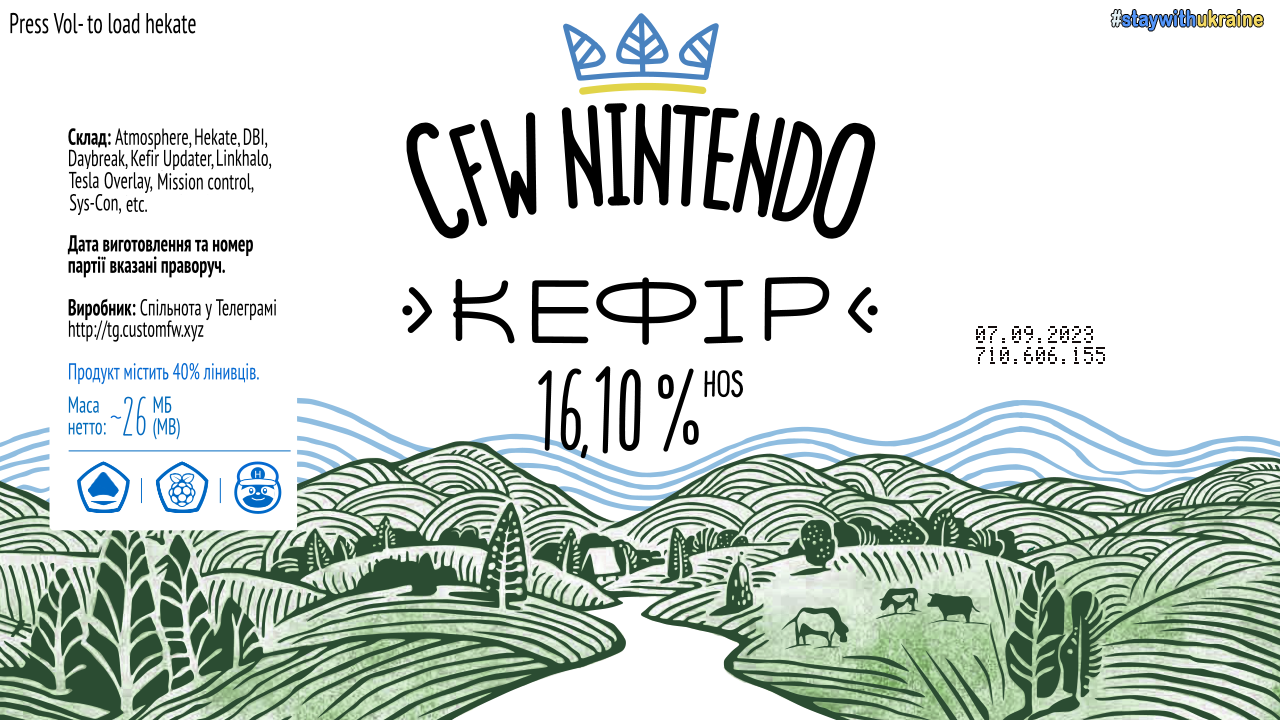
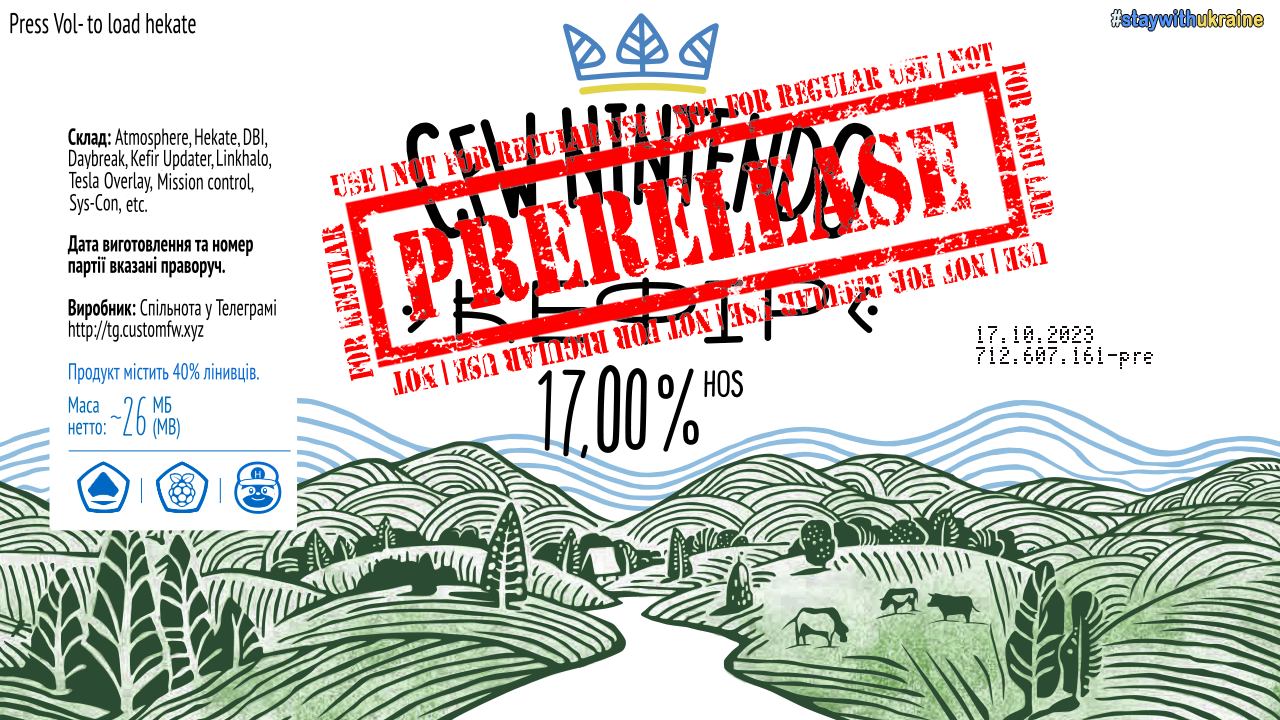
kefir712

Changed region(s): [[0.25, 0.0611, 0.8438, 0.6417], [0.875, 0.4889, 0.9062, 0.5194], [0.7812, 0.4583, 0.8125, 0.4889]]

diff --git a/kefir.html b/kefir.html
@@ -329,7 +329,7 @@
 <nav class="toc">
     <header><h4 class="nav__title"><i class="fa fa-file-text"></i> Разделы</h4></header>
 <ul class="toc__menu" id="markdown-toc">
-  <li><a href="#kefir-710" id="markdown-toc-kefir-710">KEFIR 710</a>    <ul>
+  <li><a href="#kefir-712" id="markdown-toc-kefir-712">KEFIR 712</a>    <ul>
       <li><a href="#что-такое-кефир" id="markdown-toc-что-такое-кефир">Что такое кефир</a></li>
       <li><a href="#инструкция-по-установкеобновлению-kefir" id="markdown-toc-инструкция-по-установкеобновлению-kefir">Инструкция по установке/обновлению kefir</a></li>
     </ul>
@@ -365,7 +365,7 @@
 
 <hr />
 
-<h2 id="kefir-710"><a href="https://codeberg.org/rashevskyv/kefir/releases" target="_blank">KEFIR 710</a></h2>
+<h2 id="kefir-712"><a href="https://codeberg.org/rashevskyv/kefir/releases" target="_blank">KEFIR 712</a></h2>
 
 <p class="text-center"><img src="/images/kefir.png" alt="kefir" width="70%" /></p>
 
@@ -607,51 +607,41 @@
 <h3 id="изменения-от-прошлой-версии">Изменения от прошлой версии</h3>
 
 <h4 id="ukr"><strong>UKR</strong>:</h4>
-<p><strong>16.1.0 повністю підтримується</strong></p>
+<p><strong>Попередня підтримка 17.0.0. Використовуйте для відката прошивки на 16.1.0</strong></p>
 
-<p><strong>710:</strong></p>
+<p><strong>712-pre:</strong></p>
 <ul>
-  <li>[<strong>Виправлено</strong>] Виправлена помилка відображення хибної версії в налаштуваннях</li>
-  <li>[<strong>Оновлено</strong>] <a href="https://github.com/ndeadly/MissionControl/releases/tag/v0.9.3">Mission Control 0.9.4</a> - виправлено зависання при спарюванні контролерів на 16.1.0</li>
-  <li>[<strong>Оновлено</strong>] <a href="https://github.com/rashevskyv/kefir-updater">Kefir Updater</a> - вимкнено дебаг-функції, що гіпотетично виправить помилку при старті програми</li>
-</ul>
-
-<p><strong>709:</strong></p>
-<ul>
-  <li>[<strong>Оновлено</strong>] <a href="https://github.com/rashevskyv/Kefirosphere">Atmosphere 1.5.5</a> - підтримка 16.1.0
+  <li>[<strong>Оновлено</strong>] <a href="https://github.com/rashevskyv/Kefirosphere">Atmosphere 1.6.1-pre</a> - Попередня підтримка 17.0.0
     <ul>
       <li><a href="https://github.com/Atmosphere-NX/Atmosphere/releases"><strong>Детальніше про зміни в Atmosphere</strong></a></li>
     </ul>
   </li>
-  <li>[<strong>Оновлено</strong>] <a href="https://github.com/CTCaer/hekate">hekate 6.0.6</a> - підтримка 16.1.0, зміни для L4T</li>
-  <li>[<strong>Оновлено</strong>] <a href="https://github.com/rashevskyv/dbi/releases">DBI 616</a> - виправлення багів, QoL зміни</li>
-  <li>[<strong>Оновлено</strong>] <a href="https://github.com/ndeadly/MissionControl/releases/tag/v0.9.3">Mission Control 0.9.3</a> - підтримка 16.1.0, зміни в роботі деяких контролерів</li>
-  <li>[<strong>Оновлено</strong>] <a href="https://github.com/rashevskyv/kefir-updater">Kefir Updater</a> - оновлено до останньої версії AiO</li>
+  <li>[<strong>Оновлено</strong>] <a href="https://github.com/CTCaer/hekate">hekate 6.0.7</a> - підтримка 17.0.0, зміни для L4T</li>
+  <li>[<strong>Оновлено</strong>] <a href="https://github.com/suchmememanyskill/TegraExplorer">TegraExplorer</a> - підтримка 17.0.0</li>
+  <li>[<strong>Оновлено</strong>] <a href="https://github.com/suchmememanyskill/TegraExplorer">Lockpick_RCM</a> - підтримка 17.0.0</li>
+  <li>[<strong>Оновлено</strong>] <a href="https://github.com/ndeadly/MissionControl">Mission Control 0.10.0</a> - підтримка 17.0.0, додані контролери, QoL-зміни</li>
+  <li>[<strong>Оновлено</strong>] <a href="https://github.com/exelix11/SwitchThemeInjector">NxThemesInstaller 2.7.1</a> - підтримка 17.0.0</li>
+  <li>[<strong>Видалено</strong>] [Caffeine] - буде окремим паком на сторінці кофеїна в гайді</li>
 </ul>
 
 <hr />
 
 <h4 id="eng"><strong>ENG</strong>:</h4>
-<p><strong>16.1.0 is fully supported</strong></p>
+<p><strong>Previous support 17.0.0. Use to rollback firmware to 16.1.0</strong></p>
 
-<p><strong>710:</strong></p>
+<p><strong>712-pre</strong>:</p>
 <ul>
-  <li>[<strong>Fixed</strong>] Fixed an issue displaying incorrect version in settings</li>
-  <li>[<strong>Updated</strong>] <a href="https://github.com/ndeadly/MissionControl/releases/tag/v0.9.3">Mission Control 0.9.4</a> - Fixed hanging issue during controller pairing on 16.1.0</li>
-  <li>[<strong>Updated</strong>] <a href="https://github.com/rashevskyv/kefir-updater">Kefir Updater</a> - Debug functions disabled, which should hypothetically fix the error at program startup</li>
-</ul>
-
-<p><strong>709:</strong></p>
-<ul>
-  <li>[<strong>Updated</strong>] <a href="https://github.com/rashevskyv/Kefirosphere">Atmosphere 1.5.5</a> - 16.1.0 support
+  <li>[<strong>Updated</strong>] <a href="https://github.com/rashevskyv/Kefirosphere">Atmosphere 1.6.0-pre</a> - Preliminary support for 17.0.0
     <ul>
-      <li><a href="https://github.com/Atmosphere-NX/Atmosphere/releases"><strong>More about Atmosphere changes</strong></a></li>
+      <li><a href="https://github.com/Atmosphere-NX/Atmosphere/releases"><strong>More details on Atmosphere changes</strong></a></li>
     </ul>
   </li>
-  <li>[<strong>Updated</strong>] <a href="https://github.com/CTCaer/hekate">hekate 6.0.6</a> - 16.1.0 support, changes for L4T</li>
-  <li>[<strong>Updated</strong>] <a href="https://github.com/rashevskyv/dbi/releases">DBI 616</a> - bug fixes, QoL changes</li>
-  <li>[<strong>Updated</strong>] <a href="https://github.com/ndeadly/MissionControl/releases/tag/v0.9.3">Mission Control 0.9.3</a> - 16.1.0 support, changes in some controllers’ behavior</li>
-  <li>[<strong>Updated</strong>] <a href="https://github.com/rashevskyv/kefir-updater">Kefir Updater</a> - Updated to the latest version of AiO</li>
+  <li>[<strong>Updated</strong>] <a href="https://github.com/CTCaer/hekate">hekate 6.0.7</a> - Support for 17.0.0, changes for L4T</li>
+  <li>[<strong>Updated</strong>] <a href="https://github.com/suchmememanyskill/TegraExplorer">TegraExplorer</a> - Support for 17.0.0</li>
+  <li>[<strong>Updated</strong>] <a href="https://github.com/suchmememanyskill/TegraExplorer">Lockpick_RCM</a> - Support for 17.0.0</li>
+  <li>[<strong>Updated</strong>] <a href="https://github.com/ndeadly/MissionControl">Mission Control 0.10.0</a> - Support for 17.0.0, added controllers, QoL changes</li>
+  <li>[<strong>Updated</strong>] <a href="https://github.com/exelix11/SwitchThemeInjector">NxThemesInstaller 2.7.1</a> - Support for 17.0.0</li>
+  <li>[<strong>Removed</strong>] [Caffeine] - will be as separated pack on guide</li>
 </ul>
 
 <hr />
